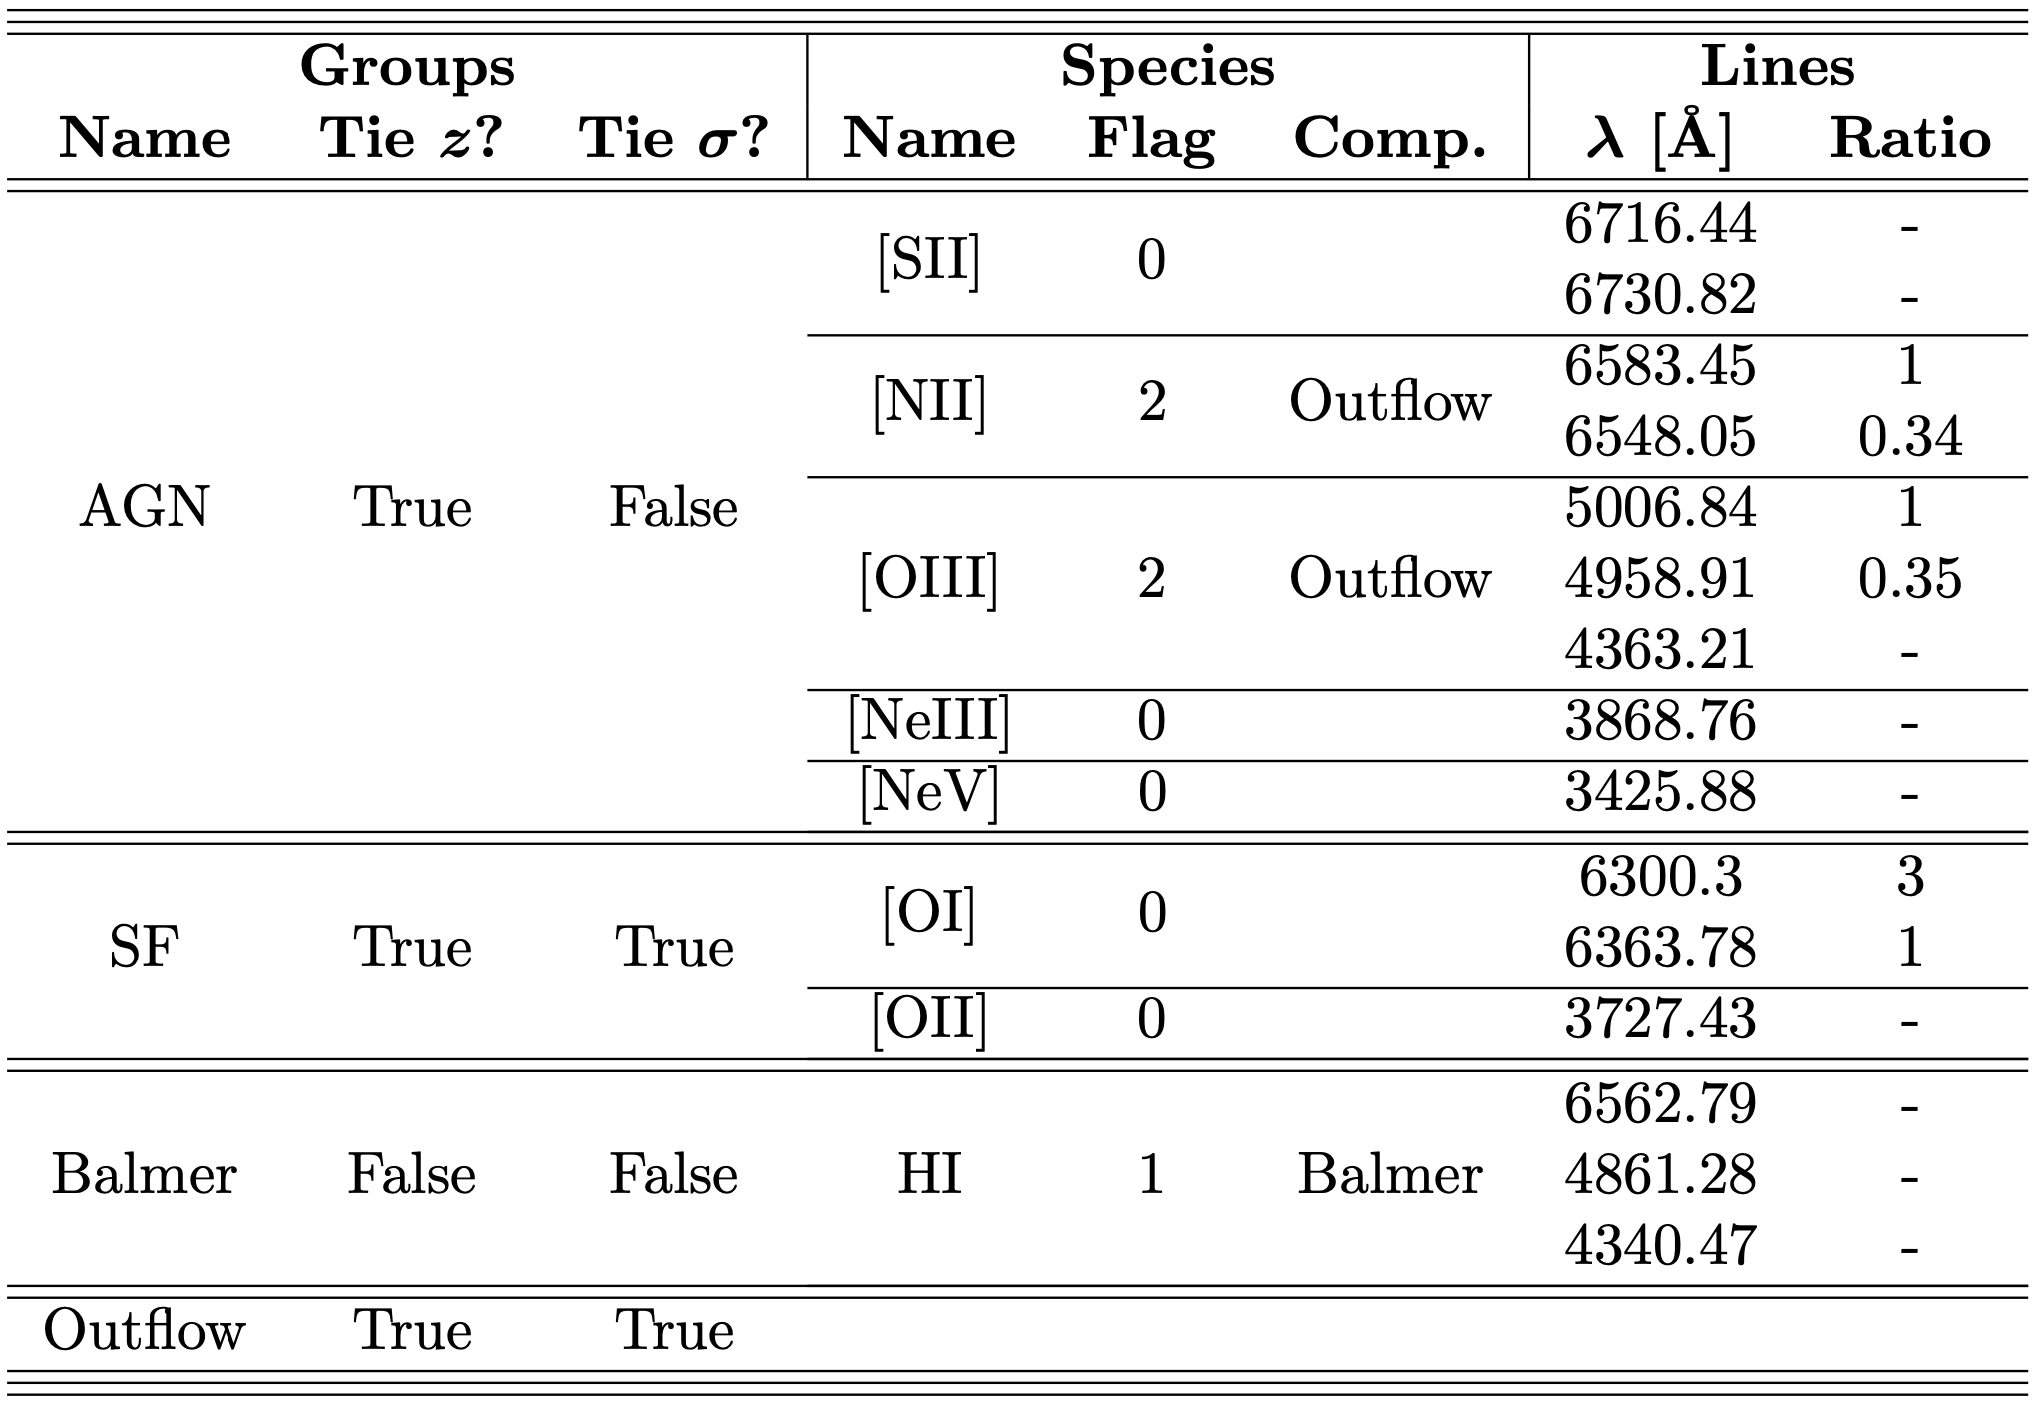
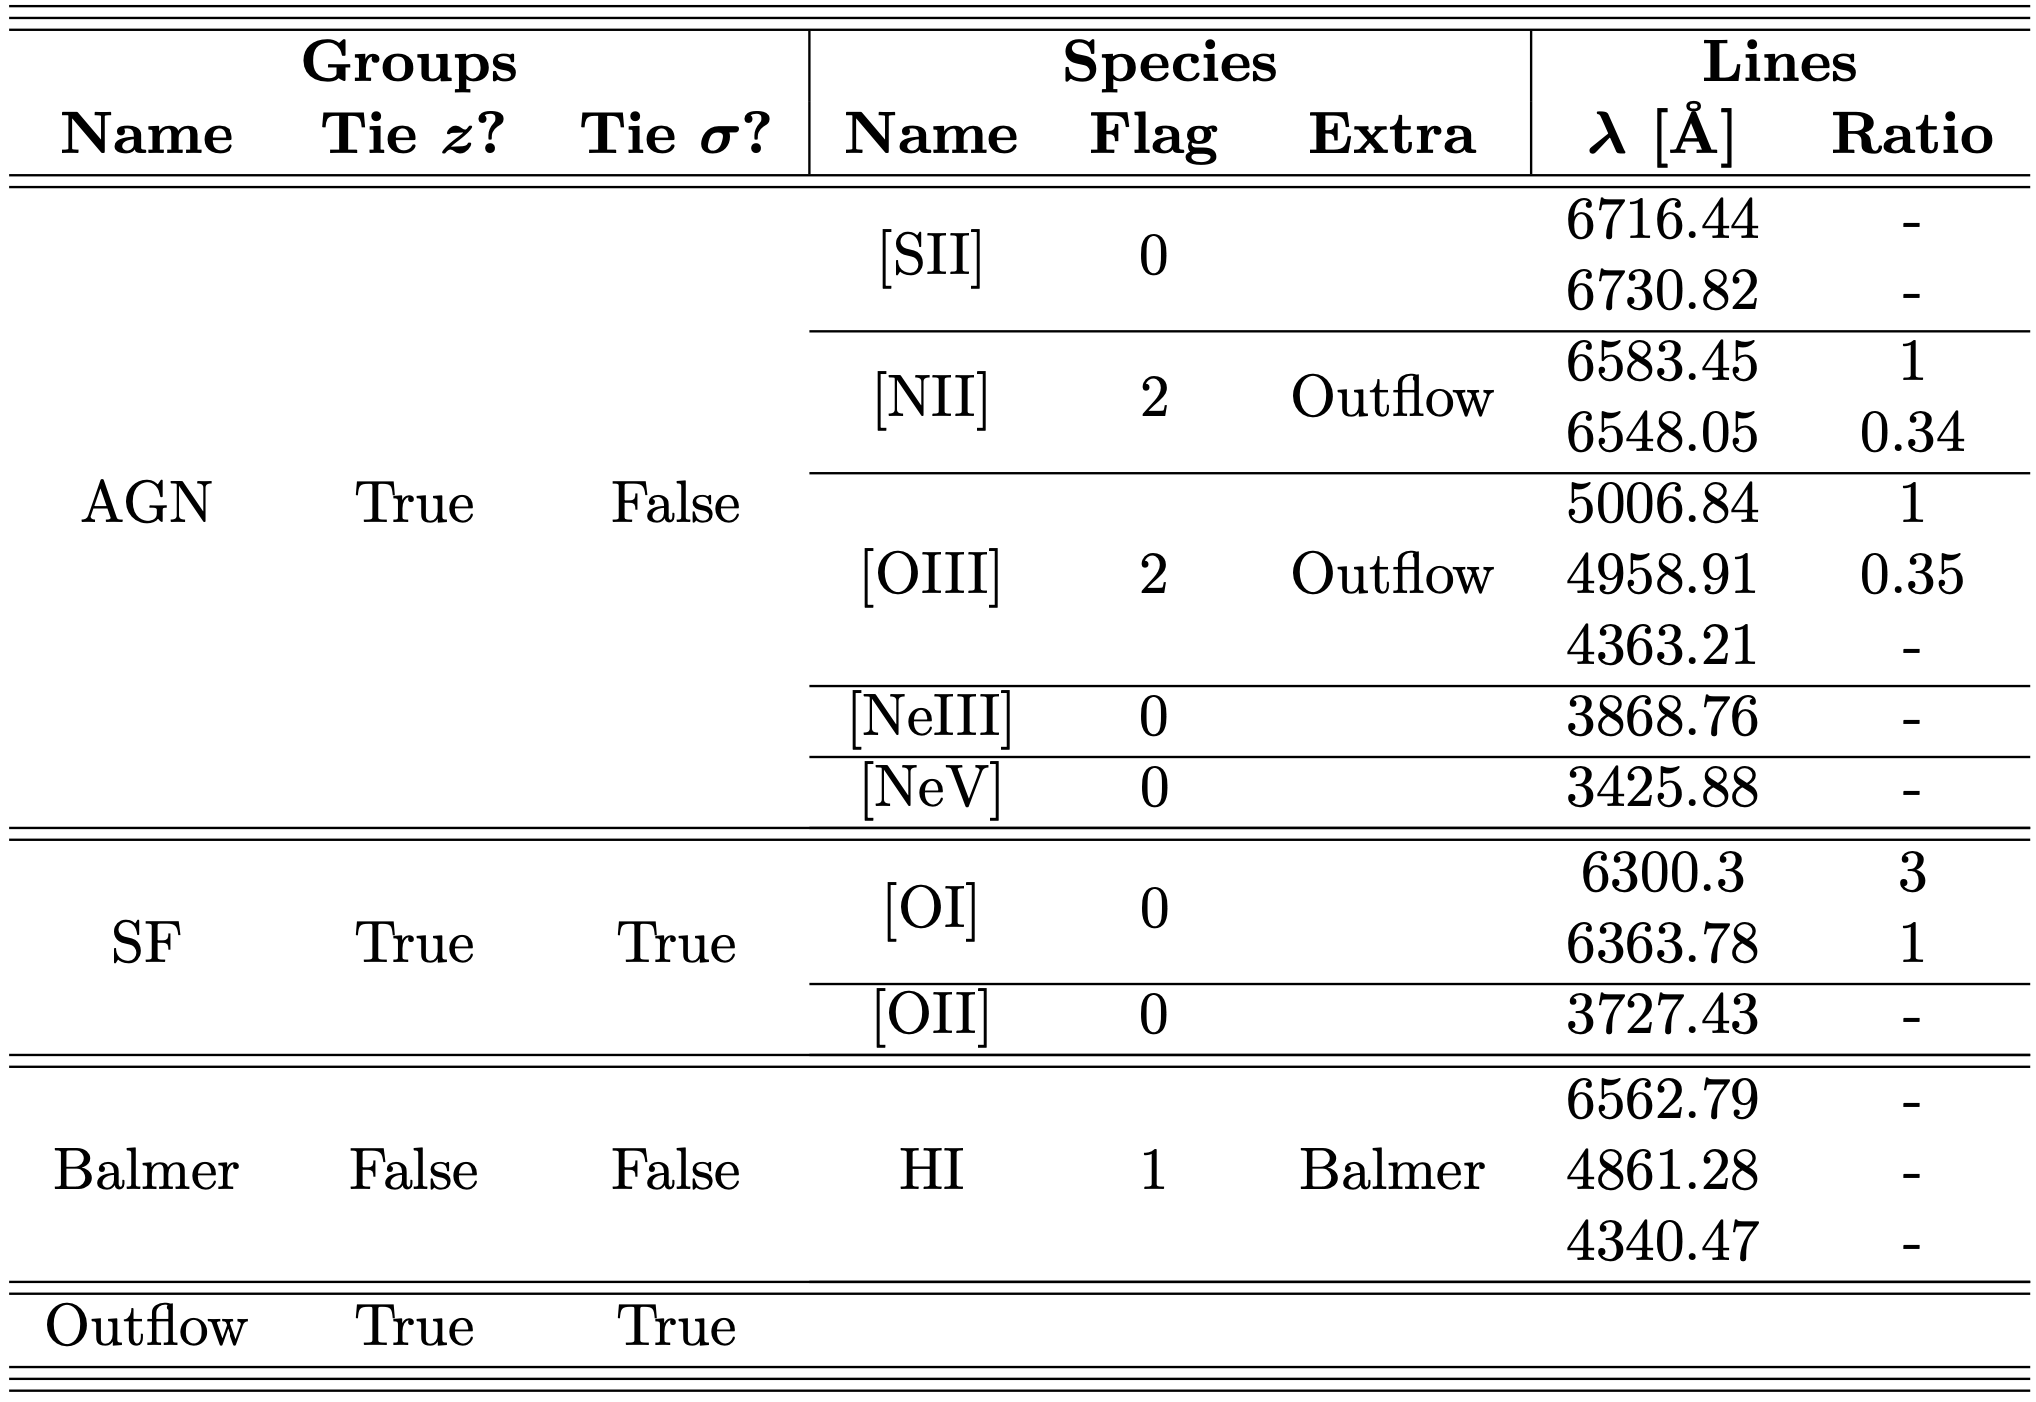
Made parameter file table a little nicer

diff --git a/Convenience/params_to_tex.py b/Convenience/params_to_tex.py
@@ -13,7 +13,7 @@ import gelato.ConstructParams as CP
 def TeX(params):
 
     tex = '\documentclass{article}\n\\usepackage{multirow}\n\\begin{document}\n\\begin{center}\n\\begin{tabular}{cccccccc}\n\hline\hline\hline\n'
-    tex += '\\multicolumn{3}{c}{\\textbf{Groups}} & \multicolumn{3}{|c|}{\\textbf{Species}} & \multicolumn{2}{c}{\\textbf{Lines}}\\\\\n\\textbf{Name} & \\textbf{Tie \\boldmath$z$?} & \\textbf{Tie \\boldmath$\sigma$?} & \multicolumn{1}{|c}{\\textbf{Name}} & \\textbf{Flag} & \multicolumn{1}{c|}{\\textbf{Comp.}} & \\textbf{\\boldmath$\lambda$ [\AA]} & \\textbf{Ratio}\\\\\hline\hline\n'
+    tex += '\\multicolumn{3}{c}{\\textbf{Groups}} & \multicolumn{3}{|c|}{\\textbf{Species}} & \multicolumn{2}{c}{\\textbf{Lines}}\\\\\n\\textbf{Name} & \\textbf{Tie \\boldmath$z$?} & \\textbf{Tie \\boldmath$\sigma$?} & \multicolumn{1}{|c}{\\textbf{Name}} & \\textbf{Flag} & \multicolumn{1}{c|}{\\textbf{Extra}} & \\textbf{\\boldmath$\lambda$ [\AA]} & \\textbf{Ratio}\\\\\hline\hline\n'
 
     for group in params['EmissionGroups']:
         # Number of lines
